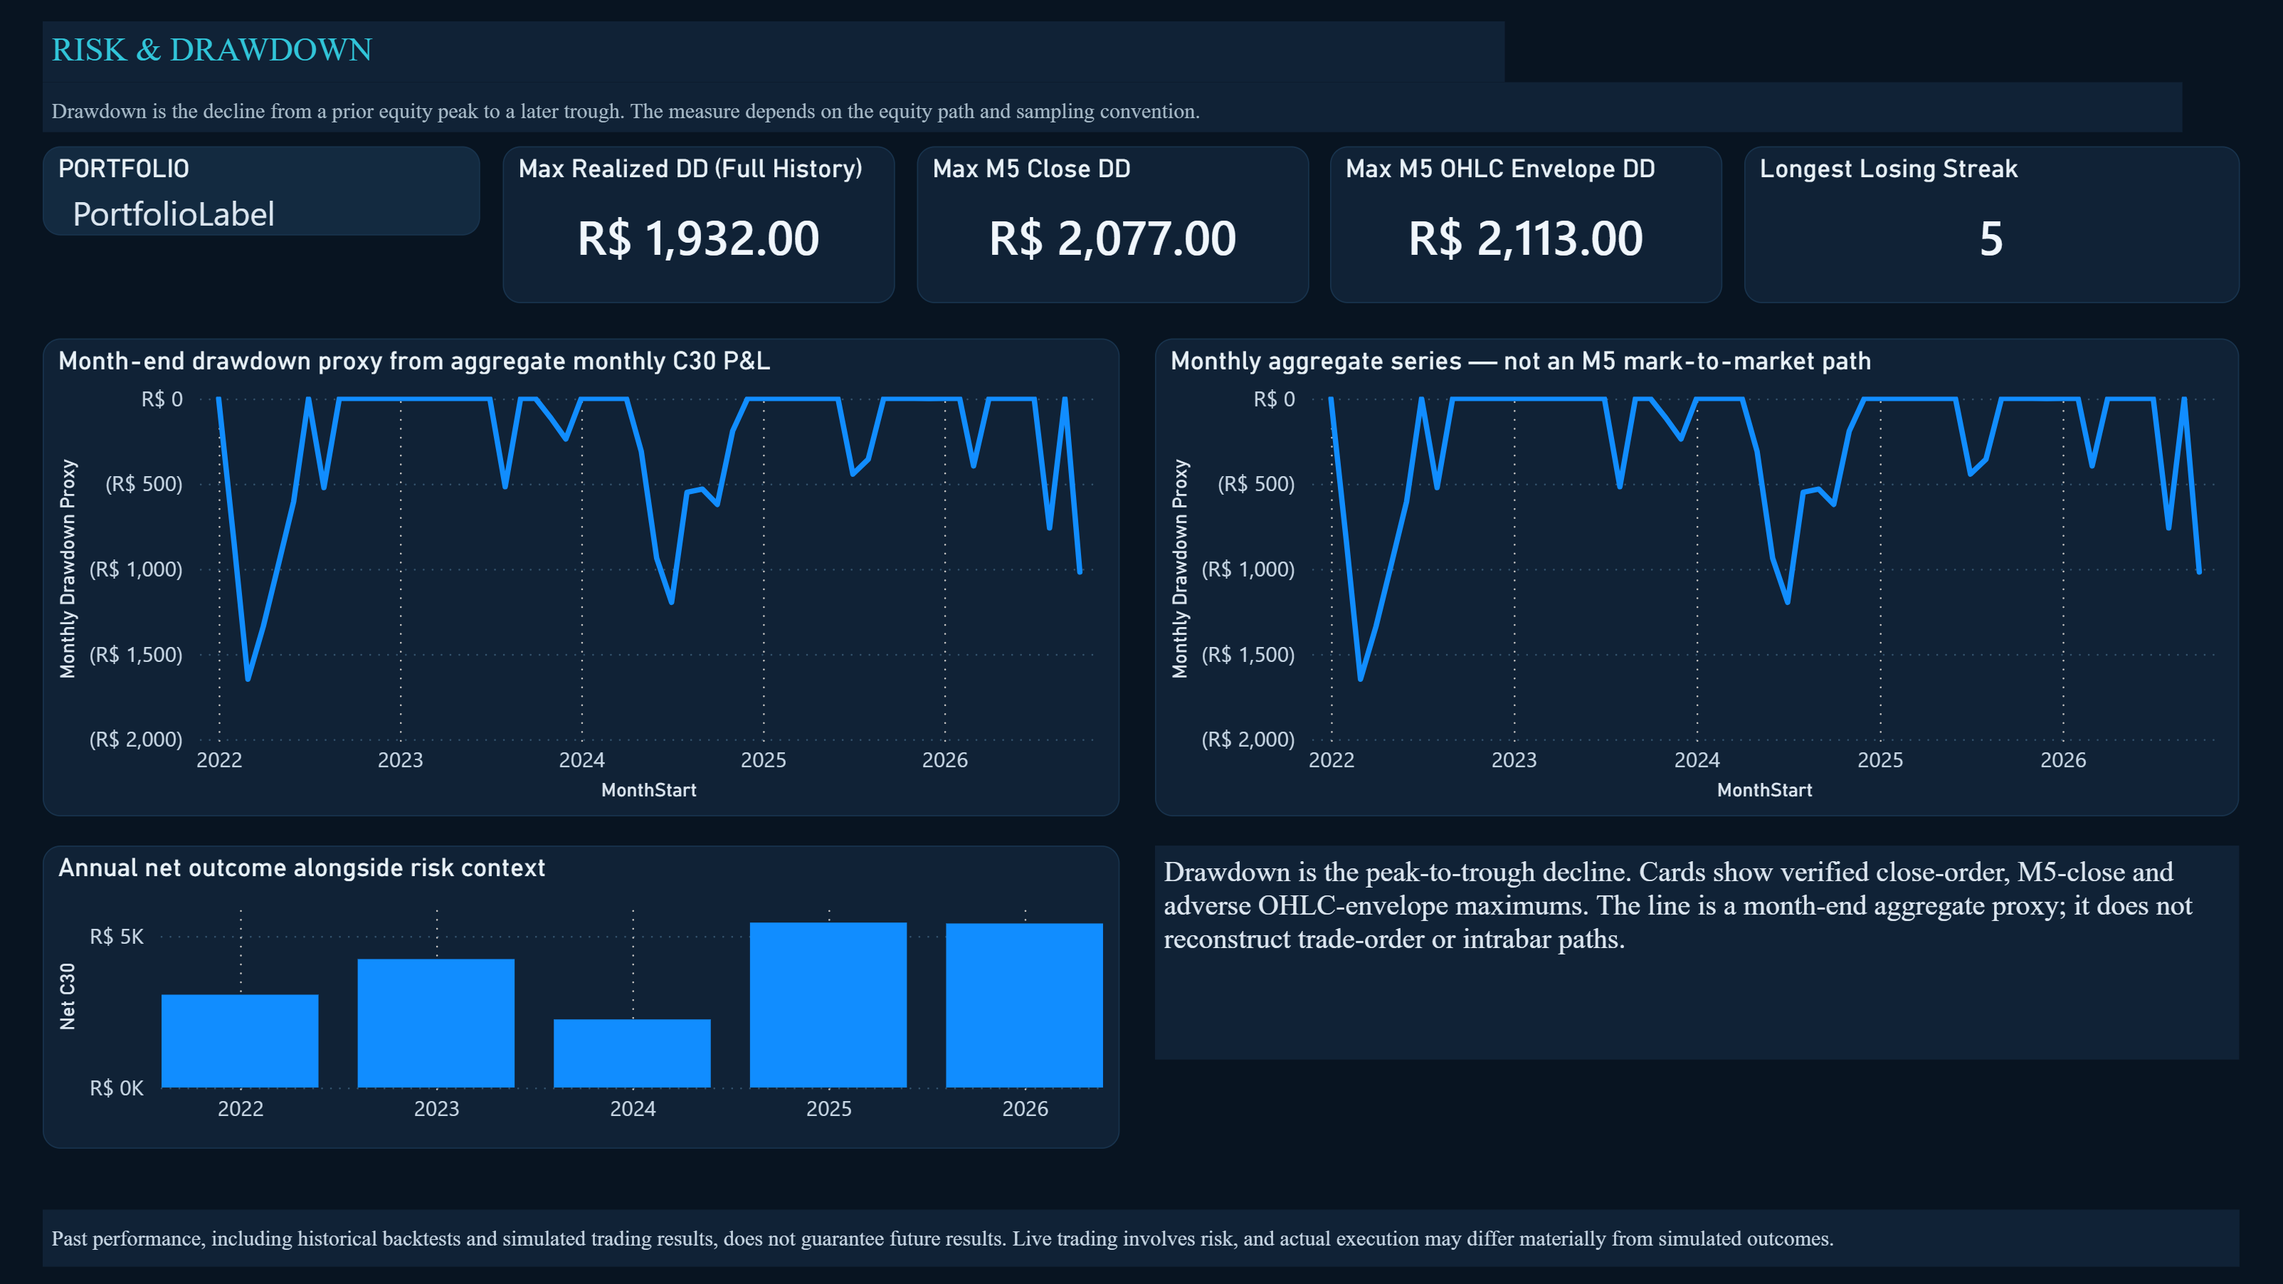
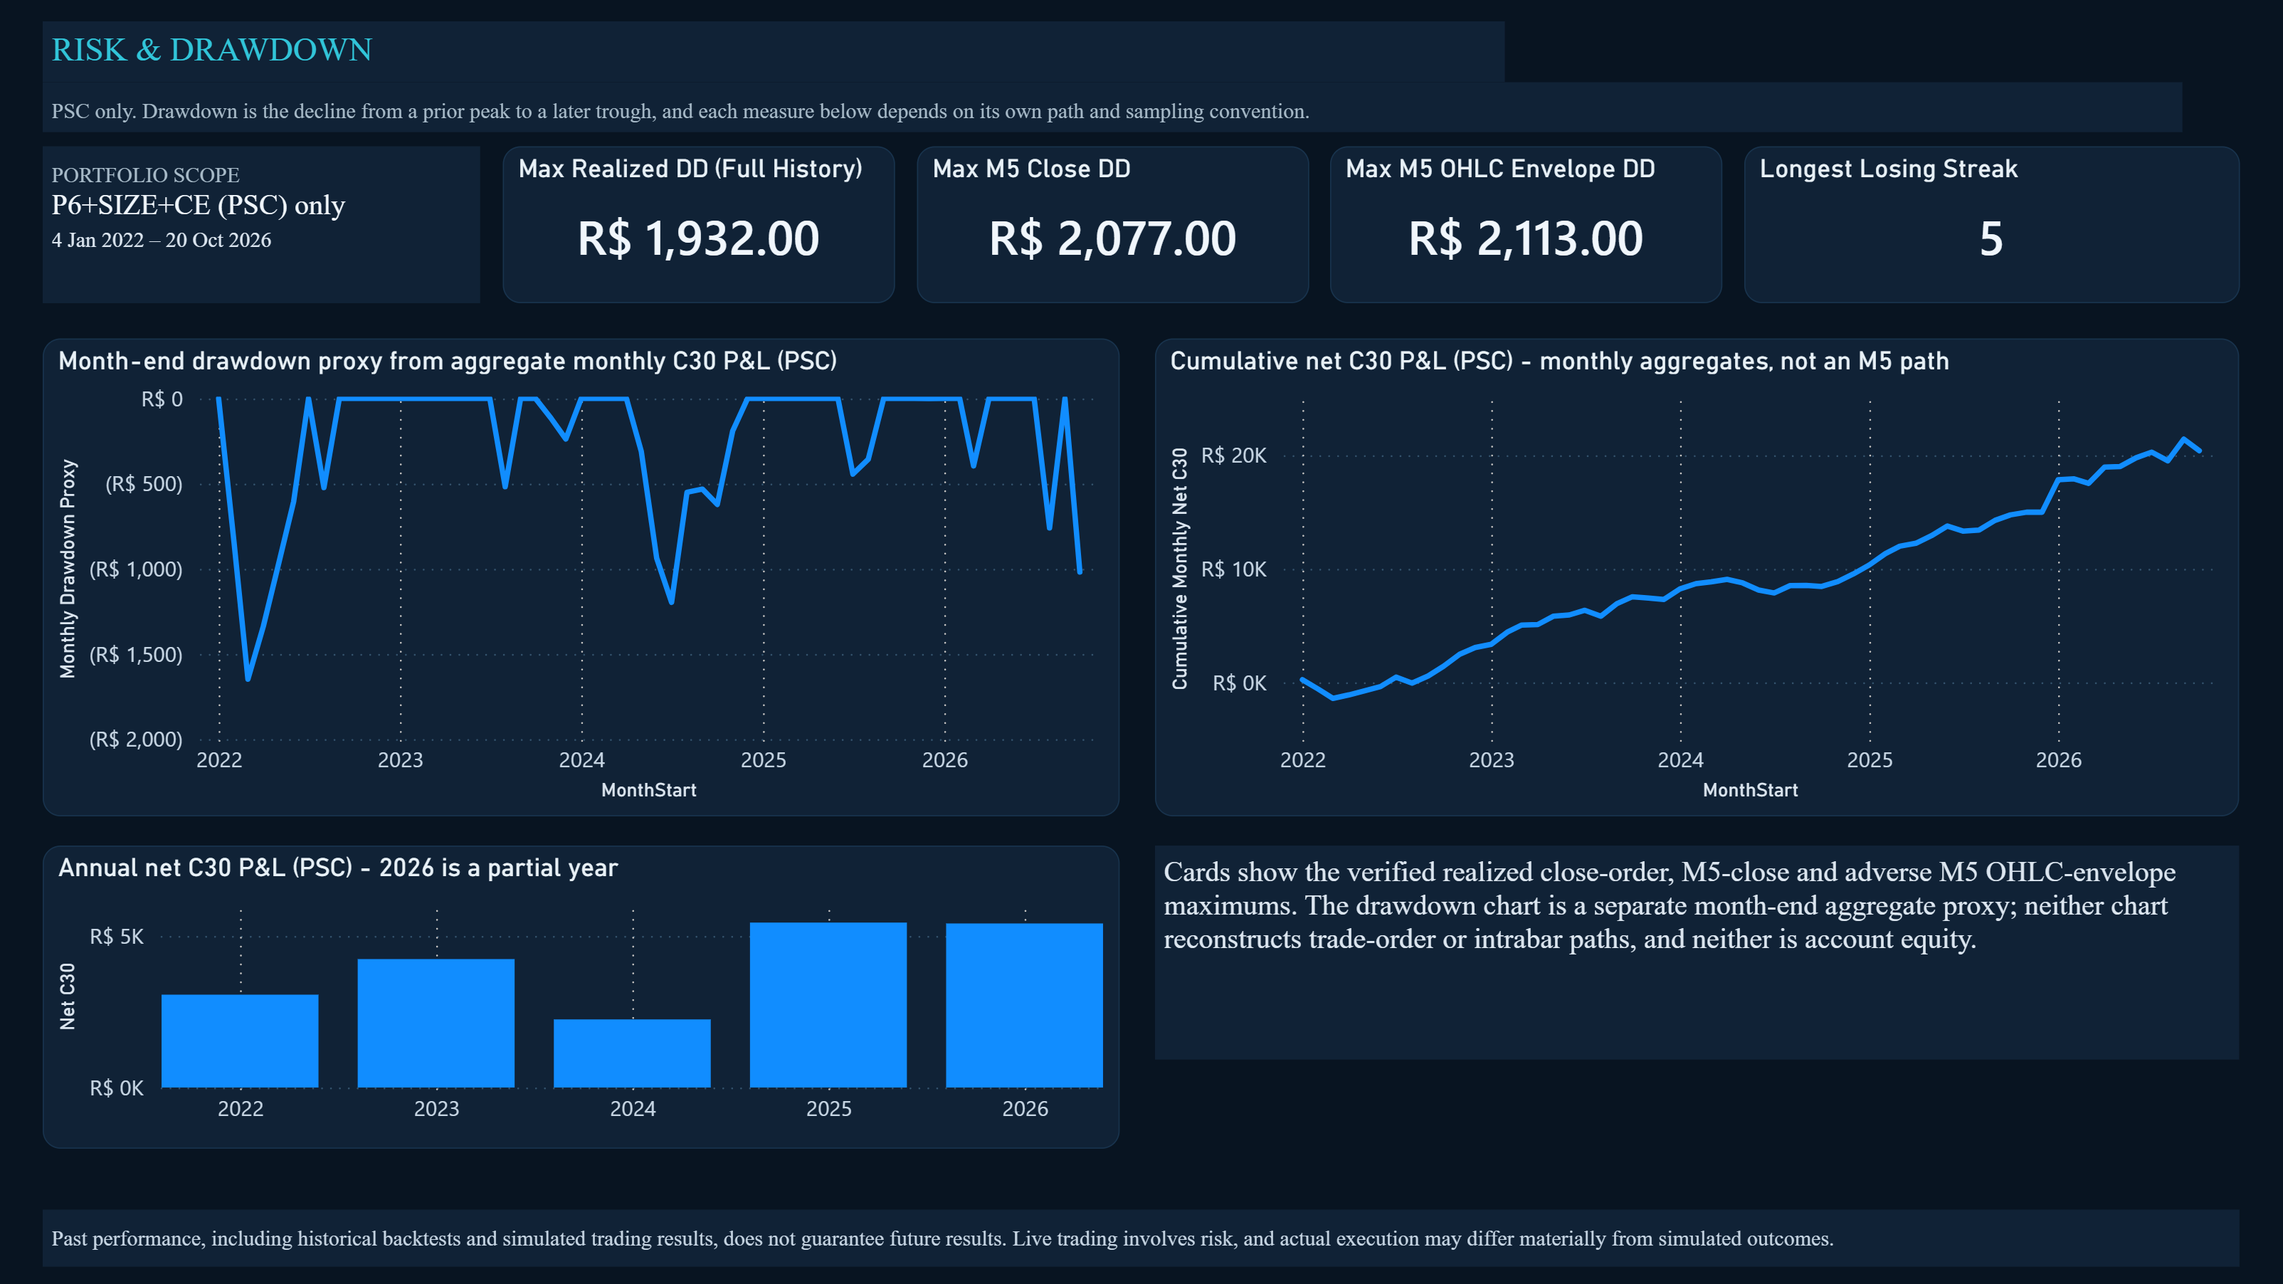
feat: publish the corrected Power BI gallery
Refresh all 14 images, use the current page 03 for the Executive Overview
preview, and describe how pages 04 and 05 scope the portfolios. Make the
file manifest reproducible across operating systems, and fail the Pages
workflow if it does not reproduce on Linux.

The replay's scripts, styles and data are unchanged.

diff --git a/dist/index.html b/dist/index.html
@@ -335,7 +335,7 @@
         </div>
         <div class="powerbi-preview">
           <div class="preview-header"><span>POWER BI DESKTOP · EXECUTIVE OVERVIEW</span><span>LOCAL REPORT</span></div>
-          <img loading="lazy" src="images/powerbi/executive-overview.png" alt="Genuine Power BI Desktop screenshot of the Project Vortex Executive Overview report page">
+          <img loading="lazy" src="images/powerbi/03-Executive.png" alt="Genuine Power BI Desktop screenshot of the Project Vortex Executive Overview report page">
             <p class="preview-caption">Native Power BI Desktop capture. The model uses approved aggregate data and excludes private trade-level records.</p>
           <div class="powerbi-gallery" aria-labelledby="pbi-gallery-title">
             <div class="pbi-gallery-heading"><div><h3 id="pbi-gallery-title">Verified report captures</h3><p>14 Power BI report pages — 14 verified screenshots.</p></div><span>ACTUAL POWER BI DESKTOP CAPTURES</span></div>
@@ -359,7 +359,7 @@
               <button class="pbi-thumb" type="button" data-pbi-index="12" data-pbi-title="13 · L01 Losing Case" data-pbi-image="images/powerbi/13-L01-Loss.png"><img loading="lazy" src="images/powerbi/13-L01-Loss.png" alt="Power BI page 13: L01 Losing Case"><span>13 · L01 Losing Case</span></button>
               <button class="pbi-thumb" type="button" data-pbi-index="13" data-pbi-title="14 · L02 Losing Case" data-pbi-image="images/powerbi/14-L02-Loss.png"><img loading="lazy" src="images/powerbi/14-L02-Loss.png" alt="Power BI page 14: L02 Losing Case"><span>14 · L02 Losing Case</span></button>
             </div>
-            <p class="pbi-gallery-note">Pages 04 and 05 are shown with the P6+SIZE+CE (PSC) portfolio selected. Case-study pages show selected historical examples, not a representative performance sample.</p>
+            <p class="pbi-gallery-note">Page 04 compares P6 and PSC as separate series, and page 05 is PSC only; the two portfolios are never combined. Case-study pages show selected historical backtest examples, not a representative performance sample.</p>
           </div>
           <dialog class="pbi-dialog" id="powerbi-dialog" aria-labelledby="pbi-dialog-title"><div class="pbi-dialog-bar"><h3 id="pbi-dialog-title">Power BI report page</h3><button type="button" data-pbi-close aria-label="Close report preview">Close</button></div><div class="pbi-dialog-image"><img id="pbi-dialog-image" alt=""></div><div class="pbi-dialog-nav"><button type="button" data-pbi-prev aria-label="Previous report screenshot">Previous</button><span id="pbi-dialog-count" aria-live="polite"></span><button type="button" data-pbi-next aria-label="Next report screenshot">Next</button></div></dialog>
         </div>

diff --git a/src/index.html b/src/index.html
@@ -335,7 +335,7 @@
         </div>
         <div class="powerbi-preview">
           <div class="preview-header"><span>POWER BI DESKTOP · EXECUTIVE OVERVIEW</span><span>LOCAL REPORT</span></div>
-          <img loading="lazy" src="images/powerbi/executive-overview.png" alt="Genuine Power BI Desktop screenshot of the Project Vortex Executive Overview report page">
+          <img loading="lazy" src="images/powerbi/03-Executive.png" alt="Genuine Power BI Desktop screenshot of the Project Vortex Executive Overview report page">
             <p class="preview-caption">Native Power BI Desktop capture. The model uses approved aggregate data and excludes private trade-level records.</p>
           <div class="powerbi-gallery" aria-labelledby="pbi-gallery-title">
             <div class="pbi-gallery-heading"><div><h3 id="pbi-gallery-title">Verified report captures</h3><p>14 Power BI report pages — 14 verified screenshots.</p></div><span>ACTUAL POWER BI DESKTOP CAPTURES</span></div>
@@ -359,7 +359,7 @@
               <button class="pbi-thumb" type="button" data-pbi-index="12" data-pbi-title="13 · L01 Losing Case" data-pbi-image="images/powerbi/13-L01-Loss.png"><img loading="lazy" src="images/powerbi/13-L01-Loss.png" alt="Power BI page 13: L01 Losing Case"><span>13 · L01 Losing Case</span></button>
               <button class="pbi-thumb" type="button" data-pbi-index="13" data-pbi-title="14 · L02 Losing Case" data-pbi-image="images/powerbi/14-L02-Loss.png"><img loading="lazy" src="images/powerbi/14-L02-Loss.png" alt="Power BI page 14: L02 Losing Case"><span>14 · L02 Losing Case</span></button>
             </div>
-            <p class="pbi-gallery-note">Pages 04 and 05 are shown with the P6+SIZE+CE (PSC) portfolio selected. Case-study pages show selected historical examples, not a representative performance sample.</p>
+            <p class="pbi-gallery-note">Page 04 compares P6 and PSC as separate series, and page 05 is PSC only; the two portfolios are never combined. Case-study pages show selected historical backtest examples, not a representative performance sample.</p>
           </div>
           <dialog class="pbi-dialog" id="powerbi-dialog" aria-labelledby="pbi-dialog-title"><div class="pbi-dialog-bar"><h3 id="pbi-dialog-title">Power BI report page</h3><button type="button" data-pbi-close aria-label="Close report preview">Close</button></div><div class="pbi-dialog-image"><img id="pbi-dialog-image" alt=""></div><div class="pbi-dialog-nav"><button type="button" data-pbi-prev aria-label="Previous report screenshot">Previous</button><span id="pbi-dialog-count" aria-live="polite"></span><button type="button" data-pbi-next aria-label="Next report screenshot">Next</button></div></dialog>
         </div>

diff --git a/scripts/audit_public_site.py b/scripts/audit_public_site.py
@@ -1,10 +1,15 @@
 from __future__ import annotations
 import csv,hashlib,json,re
-from datetime import date
 from pathlib import Path
 R=Path(__file__).resolve().parents[1]
 manifest=R/'docs/public-file-manifest.json'
-files=[p for p in R.rglob('*') if p.is_file() and '.git' not in p.parts and p.name!='public-file-manifest.json']
+REVIEW_DATE='2026-11-06'
+BINARY={'.png','.jpg','.jpeg','.gif','.webp','.ico','.pdf','.woff','.woff2','.ttf'}
+def canonical(p):
+ # Hash what Git stores: LF for text, exact bytes for binaries, on every operating system.
+ raw=p.read_bytes()
+ return raw if p.suffix.lower() in BINARY or b'\0' in raw else raw.replace(b'\r\n',b'\n')
+files=sorted((p for p in R.rglob('*') if p.is_file() and not {'.git','node_modules','__pycache__'}&set(p.parts) and p.name!='public-file-manifest.json'),key=lambda p:p.relative_to(R).as_posix())
 errors=[]
 patterns=[r'(?i)C:\\Projects\\Project-robot-trader',r'(?i)D:\\Robot',r'(?i)file:///',r'(?i)ZZP_TRIANGLE',r'(?i)CATCH-LONG',r'(?i)H36AAH_RECT',r'(?i)AAF_DESC',r'(?i)account.?number',r'(?i)broker.?login',r'(?i)password\s*[:=]',r'(?i)api[_ -]?key\s*[:=]',r'(?i)secret\s*[:=]']
 for p in files:
@@ -17,7 +22,7 @@ for p in files:
  if p.suffix.lower()=='.csv':
   with p.open(encoding='utf-8-sig',newline='') as f:headers=next(csv.reader(f),[])
   if {'TradeID','OpportunityID','EntryPrice','StopPrice','TargetPrice','ExitPrice','SignalTimeUTC','EntryTimeUTC','ExitTimeUTC'} & set(headers):errors.append(f'Trade-level CSV fields in {p.relative_to(R)}')
-for req in ['README.md','src/index.html','dist/index.html','docs/security-review.md','public/data/benchmark_summary.csv','public/data/annual_portfolio_results.csv','public/data/monthly_portfolio_results.csv','public/images/powerbi/executive-overview.png']:
+for req in ['README.md','src/index.html','dist/index.html','docs/security-review.md','public/data/benchmark_summary.csv','public/data/annual_portfolio_results.csv','public/data/monthly_portfolio_results.csv','public/images/powerbi/03-Executive.png']:
  if not (R/req).exists():errors.append('Missing '+req)
 for image in [p for folder in (R/'public/images/powerbi',R/'dist/images/powerbi') if folder.exists() for p in folder.glob('*.png')]:
  raw=image.read_bytes(); oid=hashlib.sha1(b'blob '+str(len(raw)).encode()+b'\0'+raw).hexdigest()
@@ -32,7 +37,7 @@ if '30 Sep 2022' not in built_html or 'source clock timezone is unverified' not 
 if 'Source-session clock · timezone unverified' not in built_html or '09:00 to 17:50' not in built_html:errors.append('Visible source-session clock qualification is missing')
 if any(k in market for k in ('entry1SourceEpoch','entry2SourceEpoch','sourceSessionStartUTC','sourceSessionEndUTC')):errors.append('Exact source timestamps must remain private')
 screens=list((R/'public/images/powerbi').glob('[0-9][0-9]-*.png'))
-payload={'reviewed':date.today().isoformat(),'scope':'website source, generated dist, public aggregate data, chart images, Power BI screenshots and documentation','file_count':len(files),'gallery_screenshot_count':len(screens),'known_contaminated_blob':'a8eca13931878c6b686c30f3b4890e0398d977ce','errors':errors,'files':[{'path':p.relative_to(R).as_posix(),'sha256':hashlib.sha256(p.read_bytes()).hexdigest(),'bytes':p.stat().st_size} for p in sorted(files)]}
-manifest.write_text(json.dumps(payload,indent=2)+'\n',encoding='utf-8')
+payload={'reviewed':REVIEW_DATE,'scope':'website source, generated dist, public aggregate data, chart images, Power BI screenshots and documentation','file_count':len(files),'gallery_screenshot_count':len(screens),'known_contaminated_blob':'a8eca13931878c6b686c30f3b4890e0398d977ce','errors':errors,'files':[{'path':p.relative_to(R).as_posix(),'sha256':hashlib.sha256(canonical(p)).hexdigest(),'bytes':len(canonical(p))} for p in files]}
+manifest.write_bytes((json.dumps(payload,indent=2)+'\n').encode('utf-8'))
 print(json.dumps({k:v for k,v in payload.items() if k!='files'},indent=2))
 if errors:raise SystemExit(1)

diff --git a/scripts/test_static_site.py b/scripts/test_static_site.py
@@ -101,8 +101,10 @@ else:
         errors.append(f"Power BI screenshot dimensions differ: {sorted(dimensions)}")
     if "14 Power BI report pages — 14 verified screenshots" not in html:
         errors.append("Gallery does not state that all 14 report pages have verified screenshots")
-    if "Pages 04 and 05 are shown with the P6+SIZE+CE (PSC) portfolio selected" not in html:
-        errors.append("Gallery does not disclose the PSC slicer state used for pages 04 and 05")
+    if "Page 04 compares P6 and PSC as separate series, and page 05 is PSC only" not in html:
+        errors.append("Gallery does not disclose how pages 04 and 05 scope the portfolios")
+    if 'src="images/powerbi/03-Executive.png" alt="Genuine' not in html or "executive-overview" in html:
+        errors.append("Executive Overview preview must use the current page 03 capture")
     if "Past performance, including historical backtests and simulated trading results" not in html:
         errors.append("Historical-performance disclosure is missing")
 

diff --git a/docs/security-review.md b/docs/security-review.md
@@ -6,6 +6,6 @@ The site is static HTML, CSS and browser-native JavaScript. It has no backend, b
 
 The replay displays the source market session date, 30 September 2022. This date is represented by source epoch records; the source clock timezone is unauthenticated, so it is not a certified B3 local timestamp. Exact source timestamps, private event identifiers, unshifted prices and the wider archive remain excluded. Publishing the date with recognizable OHLC geometry materially increases external market-correlation risk. Entry 2 and the modeled exit are off WIN's five-point tick grid; BRL values are adjusted-price model arithmetic under the separate S2 research assumption, not exchange-executable performance, PSC results, Paper Live or live-account P&L.
 
-The public PBIP contains 14 pages, and the website displays one genuine Power BI Desktop capture of each. All 14 were taken in one refreshed session on 2026-11-06 using a window-only capture, so other windows and notifications cannot appear in them, and each was pixel-reviewed. They replace the earlier six images and the eight withheld pages; none is fabricated or edited. The original v1.0.0 history still contains previously published screenshot blobs. Their removal from current trees did not erase historical Git objects; no history rewrite was performed.
+The public PBIP contains 14 pages, and the website displays one genuine Power BI Desktop capture of each. All 14 were taken in one refreshed session on 2026-11-06 using a window-only capture, so other windows and notifications cannot appear in them, and each was pixel-reviewed. They replace all earlier images; none is fabricated or edited. The original v1.0.0 history still contains the earlier contaminated screenshot blobs, which show meeting UI, including participant names, and unrelated shared-screen market windows. Anyone with the repository can still retrieve them. Removing them from current trees did not erase those objects, and no history rewrite was performed. That requires separate approval.
 
-Local checks are available in `scripts/audit_public_site.py`, `scripts/test_static_site.py` and `npm run test:replay`. This review does not claim an external secret-scanner result. See the [website repository](https://github.com/LeoBobadilha/project-vortex-portfolio) and its [Pages workflow history](https://github.com/LeoBobadilha/project-vortex-portfolio/actions/workflows/deploy-pages.yml) for publication status.
+Local checks are available in `scripts/audit_public_site.py`, `scripts/test_static_site.py` and `npm run test:replay`. `docs/public-file-manifest.json` records canonical LF hashes for text and exact-byte hashes for binaries, and the Pages workflow fails if it does not reproduce on Linux. This review does not claim an external secret-scanner result. See the [website repository](https://github.com/LeoBobadilha/project-vortex-portfolio) and its [Pages workflow history](https://github.com/LeoBobadilha/project-vortex-portfolio/actions/workflows/deploy-pages.yml) for publication status.

diff --git a/README.md b/README.md
@@ -15,7 +15,7 @@ The monthly cumulative chart is a running sum of monthly aggregates, not account
 
 ## Power BI showcase
 
-The companion [Project Vortex BI showcase](https://github.com/LeoBobadilha/project-vortex-bi-showcase) contains the public-safe 14-page PBIP. The website gallery shows all 14 report pages as genuine Power BI Desktop captures, taken in one session and pixel-reviewed. Pages 04 and 05 are shown with the P6+SIZE+CE (PSC) portfolio selected.
+The companion [Project Vortex BI showcase](https://github.com/LeoBobadilha/project-vortex-bi-showcase) contains the public-safe 14-page PBIP. The website gallery shows all 14 report pages as genuine Power BI Desktop captures, taken in one session and pixel-reviewed. Page 04 compares P6 and PSC as separate series, and page 05 is PSC only; the report never combines them.
 
 The case-study area includes an interactive replay from a separate exploratory WIN scaling backtest. Its source market session date is 30 September 2022, cross-checked against the frozen two-leg ledger and corresponding 107-bar M5 source session. The source clock timezone is unverified, and the date is not a certified B3 local timestamp. The event ledger records a one-contract long, a pullback, a separately recorded one-contract add-on and a shared model exit. Entry 2 and exit are off WIN's five-point tick grid in continuous-adjusted PRICE_ONLY OHLC, so R$750.20 gross and R$738.20 after the study's S2 assumption are unrounded research-model arithmetic, not executable performance or account P&L. No fills were snapped because verified unadjusted contract quotes are unavailable. Publishing the date with recognizable candle geometry increases external correlation risk. S2 is not C30. See [Trade Replay Methodology](docs/trade-replay-methodology.md).
 

diff --git a/CHANGELOG.md b/CHANGELOG.md
@@ -2,6 +2,9 @@
 
 ## Unreleased
 
+- Refreshed all 14 Power BI images after the report correction: P6 and PSC are never combined, page 05 is PSC only, and the case pages are now 16:9 with their caveat fully visible.
+- The Executive Overview preview now uses the current page 03 image; the separate older file is removed.
+- The file manifest now hashes canonical LF text and exact image bytes, and CI checks that it reproduces on Linux.
 - Added the verified source market session date (30 September 2022) with an explicit timezone qualification; documented the resulting OHLC correlation risk. Clarified that the case-study examples are historical and the replay position is simulated.
 - Added a prominent WIN tick-grid qualification to the 1+1 replay: the 20-cent remainder comes from exact arithmetic on off-grid adjusted-price model fills; no fills were rounded, and the displayed BRL outcome is not exchange-executable performance.
 
